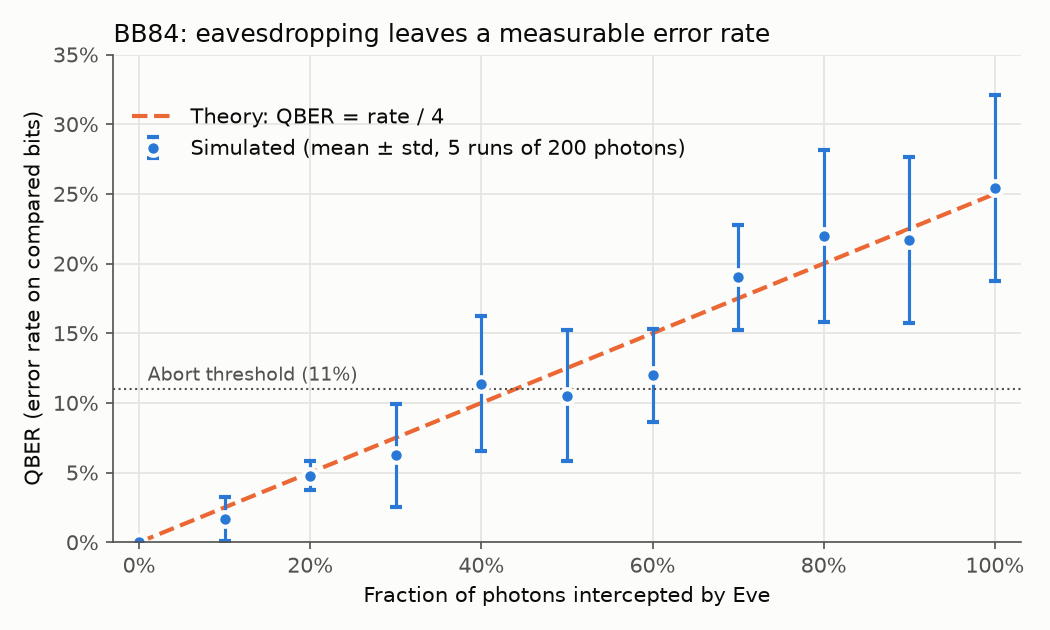
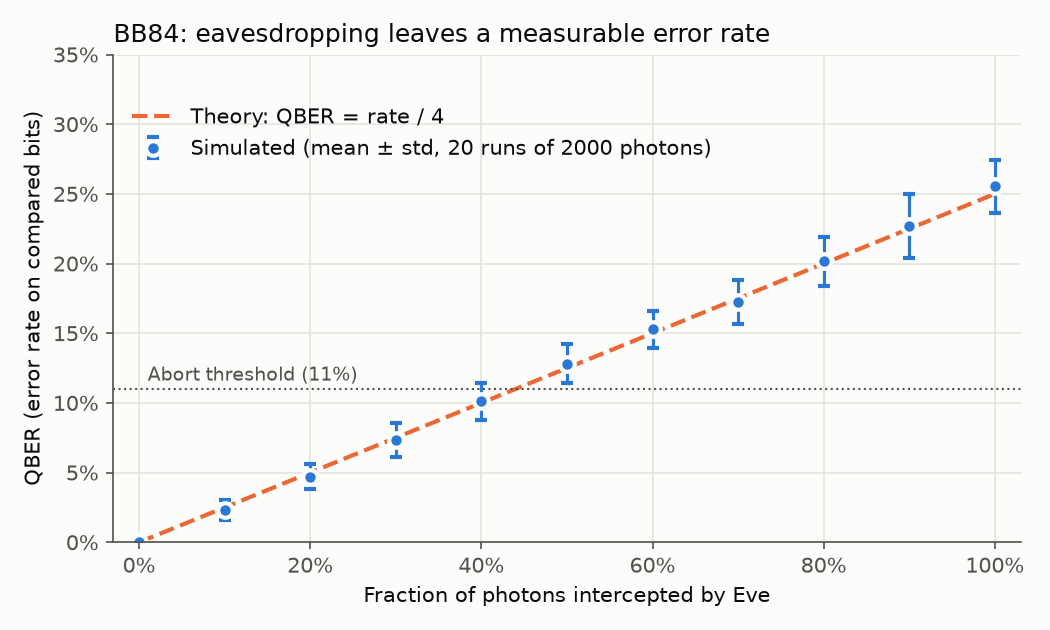
uniforme tests runs and photos

diff --git a/main.py b/main.py
@@ -21,6 +21,10 @@ from bb84 import BASIS_SYMBOL, build_circuit, detection_probability, run_bb84
 FIGURES = Path(__file__).parent / "figures"
 
 
+RUNS = 20          # independent runs per experiment (same as compare.py)
+N_PHOTONS = 2000   # photons per BB84 run (same as compare.py)
+
+
 def bits_str(bits) -> str:
     return "".join("." if b < 0 else str(b) for b in bits)
 
@@ -81,10 +85,9 @@ def save_circuits(seed: int) -> None:
         plt.close("all")
 
 
-def sweep_intercept_rate(n: int, seed: int, threshold: float) -> None:
+def sweep_intercept_rate(n: int, seed: int, threshold: float, trials: int = RUNS) -> None:
     """QBER as a function of the fraction of photons Eve intercepts."""
     rates = np.linspace(0, 1, 11)
-    trials = 5
     qbers = np.array([
         [run_bb84(n, eavesdropper=True, intercept_rate=r, seed=seed + 100 * t + i).qber for t in range(trials)]
         for i, r in enumerate(rates)
@@ -234,7 +237,7 @@ def plot_scenarios(res_clean, res_eve, limit: int = 20) -> None:
 
 def main() -> None:
     parser = argparse.ArgumentParser(description=__doc__, formatter_class=argparse.RawDescriptionHelpFormatter)
-    parser.add_argument("--n", type=int, default=200, help="number of photons Alice sends")
+    parser.add_argument("--n", type=int, default=N_PHOTONS, help="number of photons Alice sends")
     parser.add_argument("--seed", type=int, default=42, help="random seed (for reproducible runs)")
     parser.add_argument("--threshold", type=float, default=0.11, help="maximum tolerated QBER")
     parser.add_argument("--noise", type=float, default=0.0,

diff --git a/README.md b/README.md
@@ -79,7 +79,7 @@ Figures: `cmp_qber_vs_noise.png`, `cmp_useful_rate.png`, `cmp_bytes.png`, `cmp_t
 ```bash
 python -m venv .venv
 .venv/bin/pip install -r requirements.txt
-.venv/bin/python main.py              # 200 photons, seed 42
+.venv/bin/python main.py              # 2000 photons, seed 42 (sweep: 20 runs per point)
 .venv/bin/python main.py --n 1000 --seed 7
 ```
 
